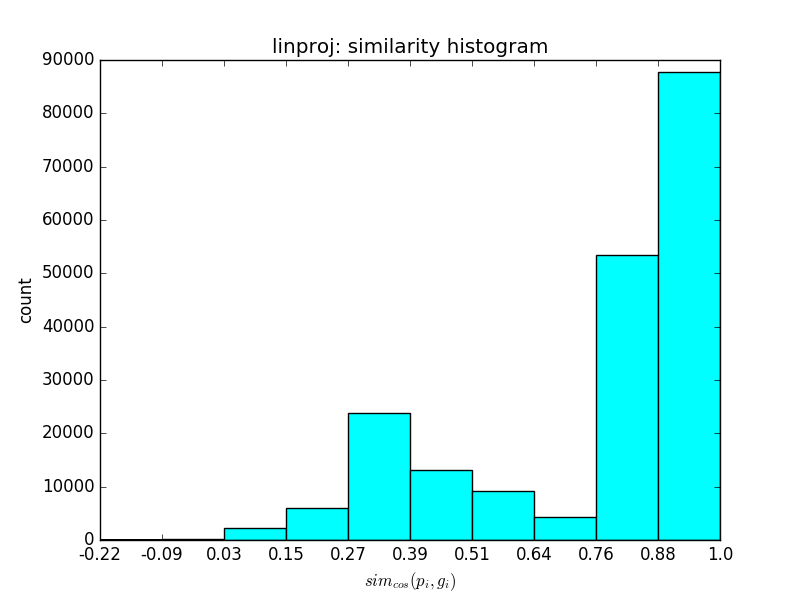
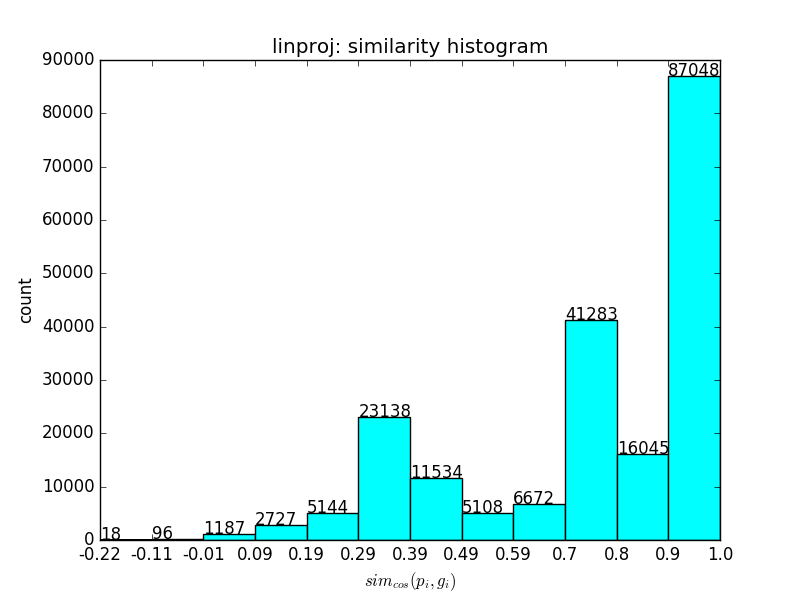
Improved similarity plots.

Changed region(s): [[0.5, 0.09, 0.9062, 0.93], [0.1562, 0.66, 0.5312, 0.93], [0.125, 0.87, 0.1562, 0.9]]

diff --git a/scripts/plot_prediction_gold_similarities.py b/scripts/plot_prediction_gold_similarities.py
@@ -16,10 +16,10 @@ def main():
     test_data_path = '../evaluation/test_data-20161107.csv'
 
     sim_hist_plot_path = '../evaluation/plots/sim_hist_{}-20161107.png'
-    leq_sim_distr_plot_path = '../evaluation/plots/le_sim_distr_{}-20161107.png'
+    leq_sim_distr_plot_path = '../evaluation/plots/cumul_sim_distr_{}-20161107.png'
 
     comb_sim_hist_plot_path = '../evaluation/plots/comb_sim_hist_{}-20161107.png'
-    comb_leq_sim_distr_plot_path = '../evaluation/plots/comb_le_sim_distr_{}-20161107.png'
+    comb_leq_sim_distr_plot_path = '../evaluation/plots/comb_cumul_sim_distr_{}-20161107.png'
 
     algorithms = [
         'baseline',
@@ -33,8 +33,7 @@ def main():
         ['baseline', 'linproj', 'pwlinproj']
     ]
 
-    steps = 11
-    nbins = 10
+    nbins = 12
     round_to = 3
 
     with open(config_path) as f:
@@ -42,7 +41,6 @@ def main():
     logging.log(level=logging.INFO, msg='loaded algorithm config')
 
     golds = load_test_data(test_data_path)
-    gold_count = len(golds)
     logging.log(level=logging.INFO, msg='loaded gold standard')
 
     predictions = dict()
@@ -70,48 +68,48 @@ def main():
     logging.log(level=logging.INFO, msg='computed similarities between all predictions and gold standards')
 
     for algorithm in algorithms:
-        plt.figure(1)
-        axes = plt.gca()
         # plot similarity histogram
+        plt.figure(1)
+        plt.clf()
+        axes = plt.gca()
         axes.set_xlim([None, 1])
-        n, bins, _ = plt.hist(similarities[algorithm], bins=nbins, label=algorithm,
-                              color=algo2color(algorithm))
+        n, bins, _ = plt.hist(similarities[algorithm], bins=nbins, label=algorithm, color=algo2color(algorithm))
+        for idx, value in enumerate(n):
+            plt.text(bins[idx], value+1, s=str(int(value)))
         plt.xticks(bins, np.round(bins, decimals=2))
         plt.xlabel('$\mathit{sim}_\mathit{cos}(p_i, g_i)$')
         plt.ylabel('count')
         plt.title('{}: similarity histogram'.format(algorithm))
         plt.savefig(sim_hist_plot_path.format(algorithm))
-        plt.clf()
         logging.log(level=logging.INFO, msg='plotted similarity histogram of {}\n stored in {}'
                     .format(algorithm, sim_hist_plot_path.format(algorithm)))
-        # plot similarity distributions
-        axes.set_xlim([0, 1])
-        x_sim = np.linspace(0, 1, num=steps)
-        y_prob = np.zeros(steps)
-        # plot leq similarity distribution
-        for idx, sim in enumerate(x_sim):
-            y_prob[idx] = np.count_nonzero(similarities[algorithm] <= sim) / gold_count
-        plt.bar(np.arange(0, steps), y_prob, alpha=1, label=algorithm, color=algo2color(algorithm))
-        plt.xticks(np.arange(0, steps) + 0.5, np.round(x_sim, decimals=round_to))
+
+        # plot cumulative similarity histogram
+        plt.figure(1)
+        plt.clf()
+        axes = plt.gca()
+        axes.set_xlim([None, 1])
+        n, bins, _ = plt.hist(similarities[algorithm], bins=nbins, label=algorithm, color=algo2color(algorithm),
+                              cumulative=True, normed=True)
+        for idx, value in enumerate(n):
+            plt.text(bins[idx], value+0.01, s=str(np.round(value, decimals=round_to)))
+        plt.xticks(bins, np.round(bins, decimals=2))
         plt.xlabel('$\mathit{sim}_\mathit{cos}(p, g)$')
         plt.ylabel('$P[x \leq X]$')
-        plt.title('{}: $P[x \leq X]$ similarity distribution'.format(algorithm))
+        plt.title('{}: $P[x \leq X]$ cumulative similarity distribution'.format(algorithm))
         plt.savefig(leq_sim_distr_plot_path.format(algorithm))
         plt.clf()
-        logging.log(level=logging.INFO, msg='plotted similarity distribution of {}\n stored in {}'
+        logging.log(level=logging.INFO, msg='plotted cumulative similarity distribution of {}\n stored in {}'
                     .format(algorithm, leq_sim_distr_plot_path.format(algorithm)))
 
     for combined_plot in combined_plots:
-        width = 1.0/(len(combined_plot)+1)
-        step_offset = 1.0/len(combined_plot)
-
-        plt.figure(1)
-        axes = plt.gca()
-        # plot density function
-        plt.clf()
+        # prepare similarities for combined histogram input
         sim = np.array(list(zip(*[similarities[algo] for algo in combined_plot])))
-        n, bins, _ = plt.hist(sim, bins=nbins, label=combined_plot,
-                              color=[algo2color(algo) for algo in combined_plot])
+
+        # plot similarity histogram
+        plt.figure(1)
+        plt.clf()
+        n, bins, _ = plt.hist(sim, bins=nbins, label=combined_plot, color=[algo2color(algo) for algo in combined_plot])
         plt.xticks(bins, np.round(bins, decimals=2))
         plt.legend(loc=2)
         plt.xlabel('$\mathit{sim}_\mathit{cos}(p_i, g_i)$')
@@ -122,24 +120,18 @@ def main():
         logging.log(level=logging.INFO, msg='plotted similarity histogram of {}\n stored in {}'
                     .format(','.join(combined_plot), comb_sim_hist_plot_path.format('_'.join(combined_plot))))
 
-        # plot similarity distributions
+        # plot cumulative similarity distributions
+        plt.figure(1)
         plt.clf()
-        axes.set_xlim([0, 1])
-        x_sim = np.linspace(0, 1, num=steps)
-        # plot leq similarity distribution
-        legend_handles = list()
-        for bar_idx, algorithm in enumerate(combined_plot):
-            y_prob = np.zeros(steps)
-            for idx, sim in enumerate(x_sim):
-                y_prob[idx] = np.count_nonzero(similarities[algorithm] <= sim) / gold_count
-            rect = plt.bar(np.arange(0, steps) + bar_idx*(step_offset if bar_idx == 0 else width),
-                           y_prob, width=width, label=algorithm, color=algo2color(algorithm))
-            legend_handles.append(rect[0])
-        plt.xticks(np.arange(0, steps) + 0.35, np.round(x_sim, decimals=round_to))
+        axes = plt.gca()
+        axes.set_xlim([None, 1])
+        n, bins, _ = plt.hist(sim, bins=nbins, label=combined_plot, color=[algo2color(algo) for algo in combined_plot],
+                              cumulative=True, normed=True)
+        plt.xticks(bins, np.round(bins, decimals=2))
+        plt.legend(loc=2)
         plt.xlabel('$\mathit{sim}_\mathit{cos}(p, g)$')
         plt.ylabel('$P[x \leq X]$')
         plt.title('$P[x \leq X]$ similarity distribution'.format(','.join(combined_plot)))
-        plt.legend(legend_handles, combined_plot, loc=2)
         plt.savefig(comb_leq_sim_distr_plot_path.format('_'.join(combined_plot)))
         logging.log(level=logging.INFO, msg='plotted similarity distribution of {}\n stored in {}'
                     .format(','.join(combined_plot), comb_leq_sim_distr_plot_path.format('_'.join(combined_plot))))
